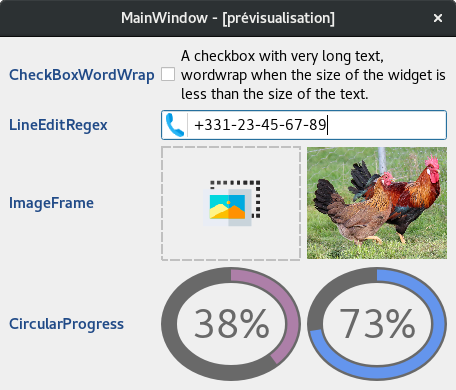
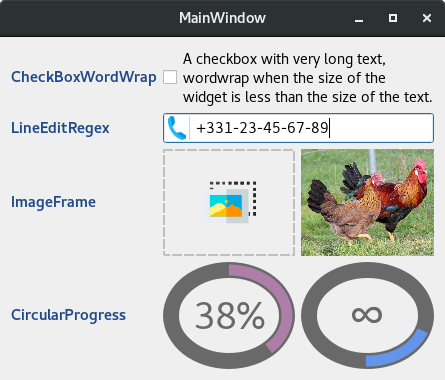
:sparkles: Infinity mode with CircularProgress
use int instead of qreal in CircularProgress min/value/max

diff --git a/plugins/CircularProgress/src/circularprogress.cpp b/plugins/CircularProgress/src/circularprogress.cpp
@@ -4,19 +4,22 @@
 
 CircularProgress::CircularProgress(QWidget *parent)
     : QWidget(parent)
+    , m_animation(new QPropertyAnimation(this, "startAngle"))
     , m_progressType(CircularProgress::Ellipse)
     , m_bgColor(QColor("dimgrey"))
     , m_valueColor(QColor("cornflowerblue"))
     , m_min(0)
     , m_max(100)
-    , m_value(0)
+    , m_value(5)
+    , m_startAngle(90 * 16) // All angle must be specified in 1/16th of a degree
     , m_barWidth(16)
-	, m_showTextPercent(true)
+    , m_showTextPercent(true)
+    , m_infinityMode(false)
 {
     //setMouseTracking(true);
-    connect(this, SIGNAL(minChanged(qreal)), this, SLOT(update()));
-    connect(this, SIGNAL(maxChanged(qreal)), this, SLOT(update()));
-    connect(this, SIGNAL(valueChanged(qreal)), this, SLOT(update()));
+    connect(this, SIGNAL(minChanged(int)), this, SLOT(update()));
+    connect(this, SIGNAL(maxChanged(int)), this, SLOT(update()));
+    connect(this, SIGNAL(valueChanged(int)), this, SLOT(update()));
 }
 
 void CircularProgress::setProgressType(CircularProgress::ProgressType progressType)
@@ -24,40 +27,40 @@ void CircularProgress::setProgressType(CircularProgress::ProgressType progressTy
     m_progressType = progressType;
 }
 
-qreal CircularProgress::getValue() const
+int CircularProgress::getValue() const
 {
     return m_value;
 }
 
-void CircularProgress::setValue(qreal value)
+void CircularProgress::setValue(int value)
 {
     m_value = value;
     emit valueChanged(value);
 }
 
-qreal CircularProgress::getMin() const
+int CircularProgress::getMin() const
 {
     return m_min;
 }
 
-void CircularProgress::setMin(qreal min)
+void CircularProgress::setMin(int min)
 {
     m_min = min;
     emit minChanged(min);
 }
 
-qreal CircularProgress::getMax() const
+int CircularProgress::getMax() const
 {
     return m_max;
 }
 
-void CircularProgress::setMax(qreal max)
+void CircularProgress::setMax(int max)
 {
     m_max = max;
     emit maxChanged(max);
 }
 
-void CircularProgress::setRange(qreal min, qreal max)
+void CircularProgress::setRange(int min, int max)
 {
     blockSignals(true);
     setMin(min);
@@ -67,46 +70,83 @@ void CircularProgress::setRange(qreal min, qreal max)
 
 QColor CircularProgress::getBgColor() const
 {
-	return m_bgColor;
+    return m_bgColor;
 }
 
 void CircularProgress::setBgColor(QColor bgcolor)
 {
-	m_bgColor = bgcolor;
-	update();
+    m_bgColor = bgcolor;
+    update();
 }
 
 QColor CircularProgress::getValueColor() const
 {
-	return m_valueColor;
+    return m_valueColor;
 }
 
 void CircularProgress::setValueColor(QColor valuecolor)
 {
-	m_valueColor = valuecolor;
-	update();
+    m_valueColor = valuecolor;
+    update();
 }
 
 int CircularProgress::getBarWidth() const
 {
-	return m_barWidth;
+    return m_barWidth;
 }
 
 void CircularProgress::setBarWidth(int bwidth)
 {
-	m_barWidth = bwidth;
-	update();
+    m_barWidth = bwidth;
+    update();
 }
 
 bool CircularProgress::isShowingText() const
 {
-	return m_showTextPercent;
+    return m_showTextPercent;
 }
 
 void CircularProgress::setTextVisible(bool visible)
 {
-	m_showTextPercent = visible;
-	update();
+    m_showTextPercent = visible;
+    update();
+}
+
+bool CircularProgress::infinityMode() const
+{
+    return m_infinityMode;
+}
+
+void CircularProgress::setInfinityMode(bool infinite)
+{
+    m_infinityMode = infinite;
+    if (m_infinityMode){
+        // Playing with 20% of the circle
+        m_min = 0;
+        m_value = 20;
+        m_max = 100;
+        // -1 to make an infinite animation
+        m_animation->setLoopCount(-1);
+        m_animation->setDuration(2500);
+        // The start position to the end (complete loop)
+        m_animation->setStartValue(90*16);
+        m_animation->setEndValue(-270*16);
+        m_animation->start();
+    } else {
+        m_animation->stop();
+        m_startAngle = 90 * 16;
+    }
+}
+
+int CircularProgress::getStartAngle() const
+{
+    return m_startAngle;
+}
+
+void CircularProgress::setStartAngle(int s_angle)
+{
+    m_startAngle = s_angle;
+    update();
 }
 
 void CircularProgress::paintEvent(QPaintEvent *event)
@@ -126,21 +166,20 @@ void CircularProgress::paintEvent(QPaintEvent *event)
     QRect rectArea(rect().adjusted(offset, offset, -offset, -offset));
     painter.setRenderHint(QPainter::Antialiasing);
 
-    int startAngle = 90 * 16;
-    int angle = int((((m_value-m_min)/(m_max-m_min))*16) * 360);
+    int angle = int(((double(m_value-m_min)/double(m_max-m_min))*16) * 360);
     // All angle must be specified in 1/16th of a degree
     pen.setColor(m_bgColor);
     painter.setPen(pen);
-    painter.drawArc(rectArea, startAngle, (16 * 360));
+    painter.drawArc(rectArea, m_startAngle, (16 * 360));
     // draw value text
-	if (m_showTextPercent){
-		font.setPointSize(rectArea.width()/4);
-		painter.setFont(font);
-		painter.drawText(rect(), Qt::AlignCenter, QString::number(int(((m_value-m_min)/(m_max-m_min))*100))+"%");
-	}
+    if (m_showTextPercent){
+        font.setPointSize(rectArea.width()/4);
+        painter.setFont(font);
+        painter.drawText(rect(), Qt::AlignCenter, (m_infinityMode ? "∞" : QString::number(int((double(m_value-m_min)/double(m_max-m_min))*100))+"%"));
+    }
     // draw value arc
     pen.setColor(m_valueColor);
     pen.setWidth(m_barWidth-m_barWidth/3);
     painter.setPen(pen);
-    painter.drawArc(rectArea, startAngle, -angle);
+    painter.drawArc(rectArea, m_startAngle, -angle);
 }

diff --git a/plugins/CircularProgress/src/circularprogress.h b/plugins/CircularProgress/src/circularprogress.h
@@ -2,60 +2,68 @@
 #define CIRCULARPROGRESS_H
 
 #include <QWidget>
+#include <QPropertyAnimation>
 
 /**
  * @author thibdev
- * @brief The Image class
+ * @brief The CircularProgress class
  */
 
 class CircularProgress : public QWidget
 {
     Q_OBJECT
 
-    Q_PROPERTY(qreal min READ getMin WRITE setMin NOTIFY minChanged)
-    Q_PROPERTY(qreal max READ getMax WRITE setMax NOTIFY maxChanged)
-    Q_PROPERTY(qreal value READ getValue WRITE setValue NOTIFY valueChanged)
-	Q_PROPERTY(QColor bgColor READ getBgColor WRITE setBgColor)
-	Q_PROPERTY(QColor valueColor READ getValueColor WRITE setValueColor)
-	Q_PROPERTY(int barWidth READ getBarWidth WRITE setBarWidth)
-	Q_PROPERTY(bool showtext READ isShowingText WRITE setTextVisible)
+    Q_PROPERTY(int min READ getMin WRITE setMin NOTIFY minChanged)
+    Q_PROPERTY(int max READ getMax WRITE setMax NOTIFY maxChanged)
+    Q_PROPERTY(int value READ getValue WRITE setValue NOTIFY valueChanged)
+    Q_PROPERTY(QColor bgColor READ getBgColor WRITE setBgColor)
+    Q_PROPERTY(QColor valueColor READ getValueColor WRITE setValueColor)
+    Q_PROPERTY(int barWidth READ getBarWidth WRITE setBarWidth)
+    Q_PROPERTY(bool showtext READ isShowingText WRITE setTextVisible)
+    Q_PROPERTY(bool infinity READ infinityMode WRITE setInfinityMode)
+    Q_PROPERTY(int startAngle READ getStartAngle WRITE setStartAngle)
 
 public:
     enum ProgressType { Filled=0, Ellipse };
     explicit CircularProgress(QWidget *parent = nullptr);
     void setProgressType(ProgressType progressType);
-    qreal getValue() const;
-    qreal getMin() const;
-    qreal getMax() const;
-	QColor getBgColor() const;
-	QColor getValueColor() const;
-	int getBarWidth() const;
-	bool isShowingText() const;
+    int getValue() const;
+    int getMin() const;
+    int getMax() const;
+    QColor getBgColor() const;
+    QColor getValueColor() const;
+    int getBarWidth() const;
+    bool isShowingText() const;
+    bool infinityMode() const;
+    int getStartAngle() const;
 
 signals:
-    void valueChanged(qreal nval);
-    void minChanged(qreal nmin);
-    void maxChanged(qreal nmax);
+    void valueChanged(int nval);
+    void minChanged(int nmin);
+    void maxChanged(int nmax);
 
 public slots:
-    void setValue(qreal value);
-    void setMin(qreal min);
-    void setMax(qreal max);
-    void setRange(qreal min, qreal max);
-	void setBgColor(QColor bgcolor);
-	void setValueColor(QColor valuecolor);
-	void setBarWidth(int bwidth);
-	void setTextVisible(bool visible = true);
+    void setValue(int value);
+    void setMin(int min);
+    void setMax(int max);
+    void setRange(int min, int max);
+    void setBgColor(QColor bgcolor);
+    void setValueColor(QColor valuecolor);
+    void setBarWidth(int bwidth);
+    void setTextVisible(bool visible = true);
+    void setInfinityMode(bool infinite);
+    void setStartAngle(int s_angle);
 
 protected:
     void paintEvent(QPaintEvent *event) override;
 
 private:
+    QPropertyAnimation *m_animation;
     ProgressType m_progressType;
     QColor m_bgColor, m_valueColor;
-    qreal m_min, m_max, m_value;
-    int m_barWidth;
-	bool m_showTextPercent;
+    int m_min, m_max, m_value;
+    int m_startAngle, m_barWidth;
+    bool m_showTextPercent, m_infinityMode;
 
 };
 

diff --git a/plugins/CircularProgress/README.md b/plugins/CircularProgress/README.md
@@ -1,17 +1,17 @@
 # CircularProgress
 
-Coming soon: infinite mode
-
 ## Properties
 
 |Property|Type|
 |-|-|
-|min|qreal|
-|max|qreal|
-|value|qreal|
+|min|int|
+|max|int|
+|value|int|
 |bgColor|[QColor](http://doc.qt.io/qt-5/qcolor.html)|
 |valueColor|[QColor](http://doc.qt.io/qt-5/qcolor.html)|
 |barWidth|int|
 |showtext|bool|
+|infinity|bool|
+|startAngle|int [(1/360 = 1*16)](http://doc.qt.io/qt-5/qpainter.html#drawArc)|
 
 ![plugins render](../../screenshots/circularprogress_properties.png)
